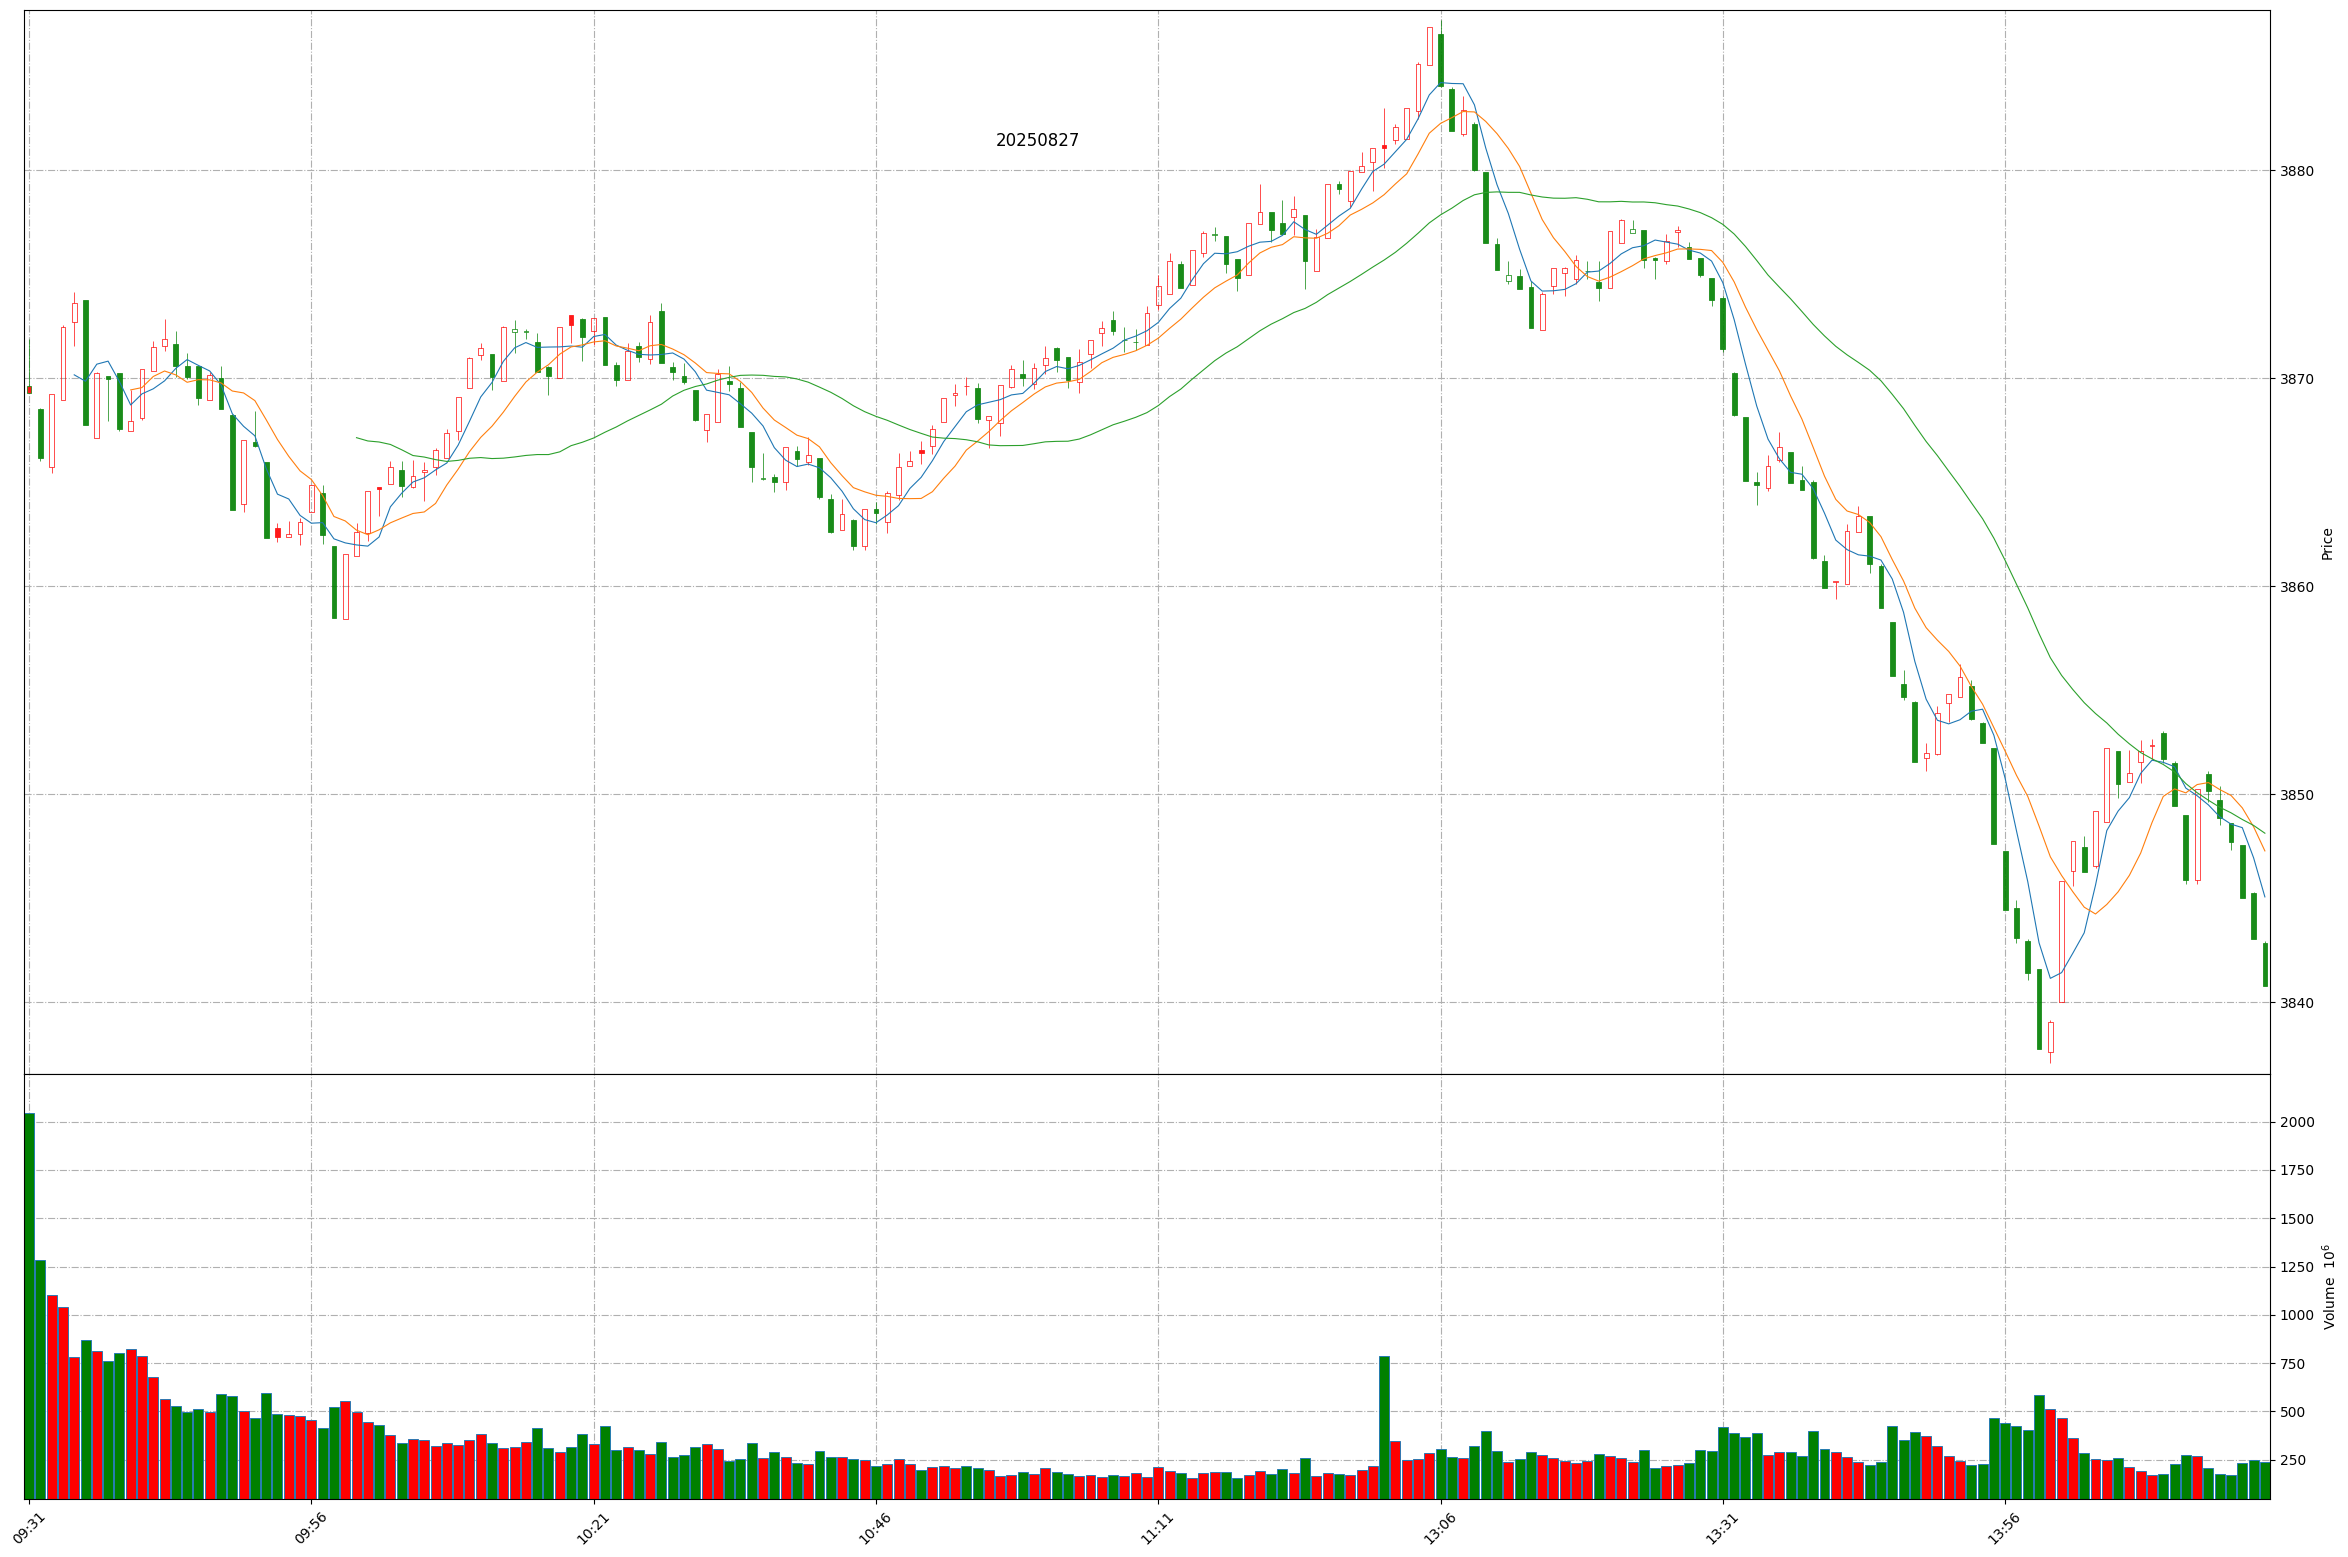
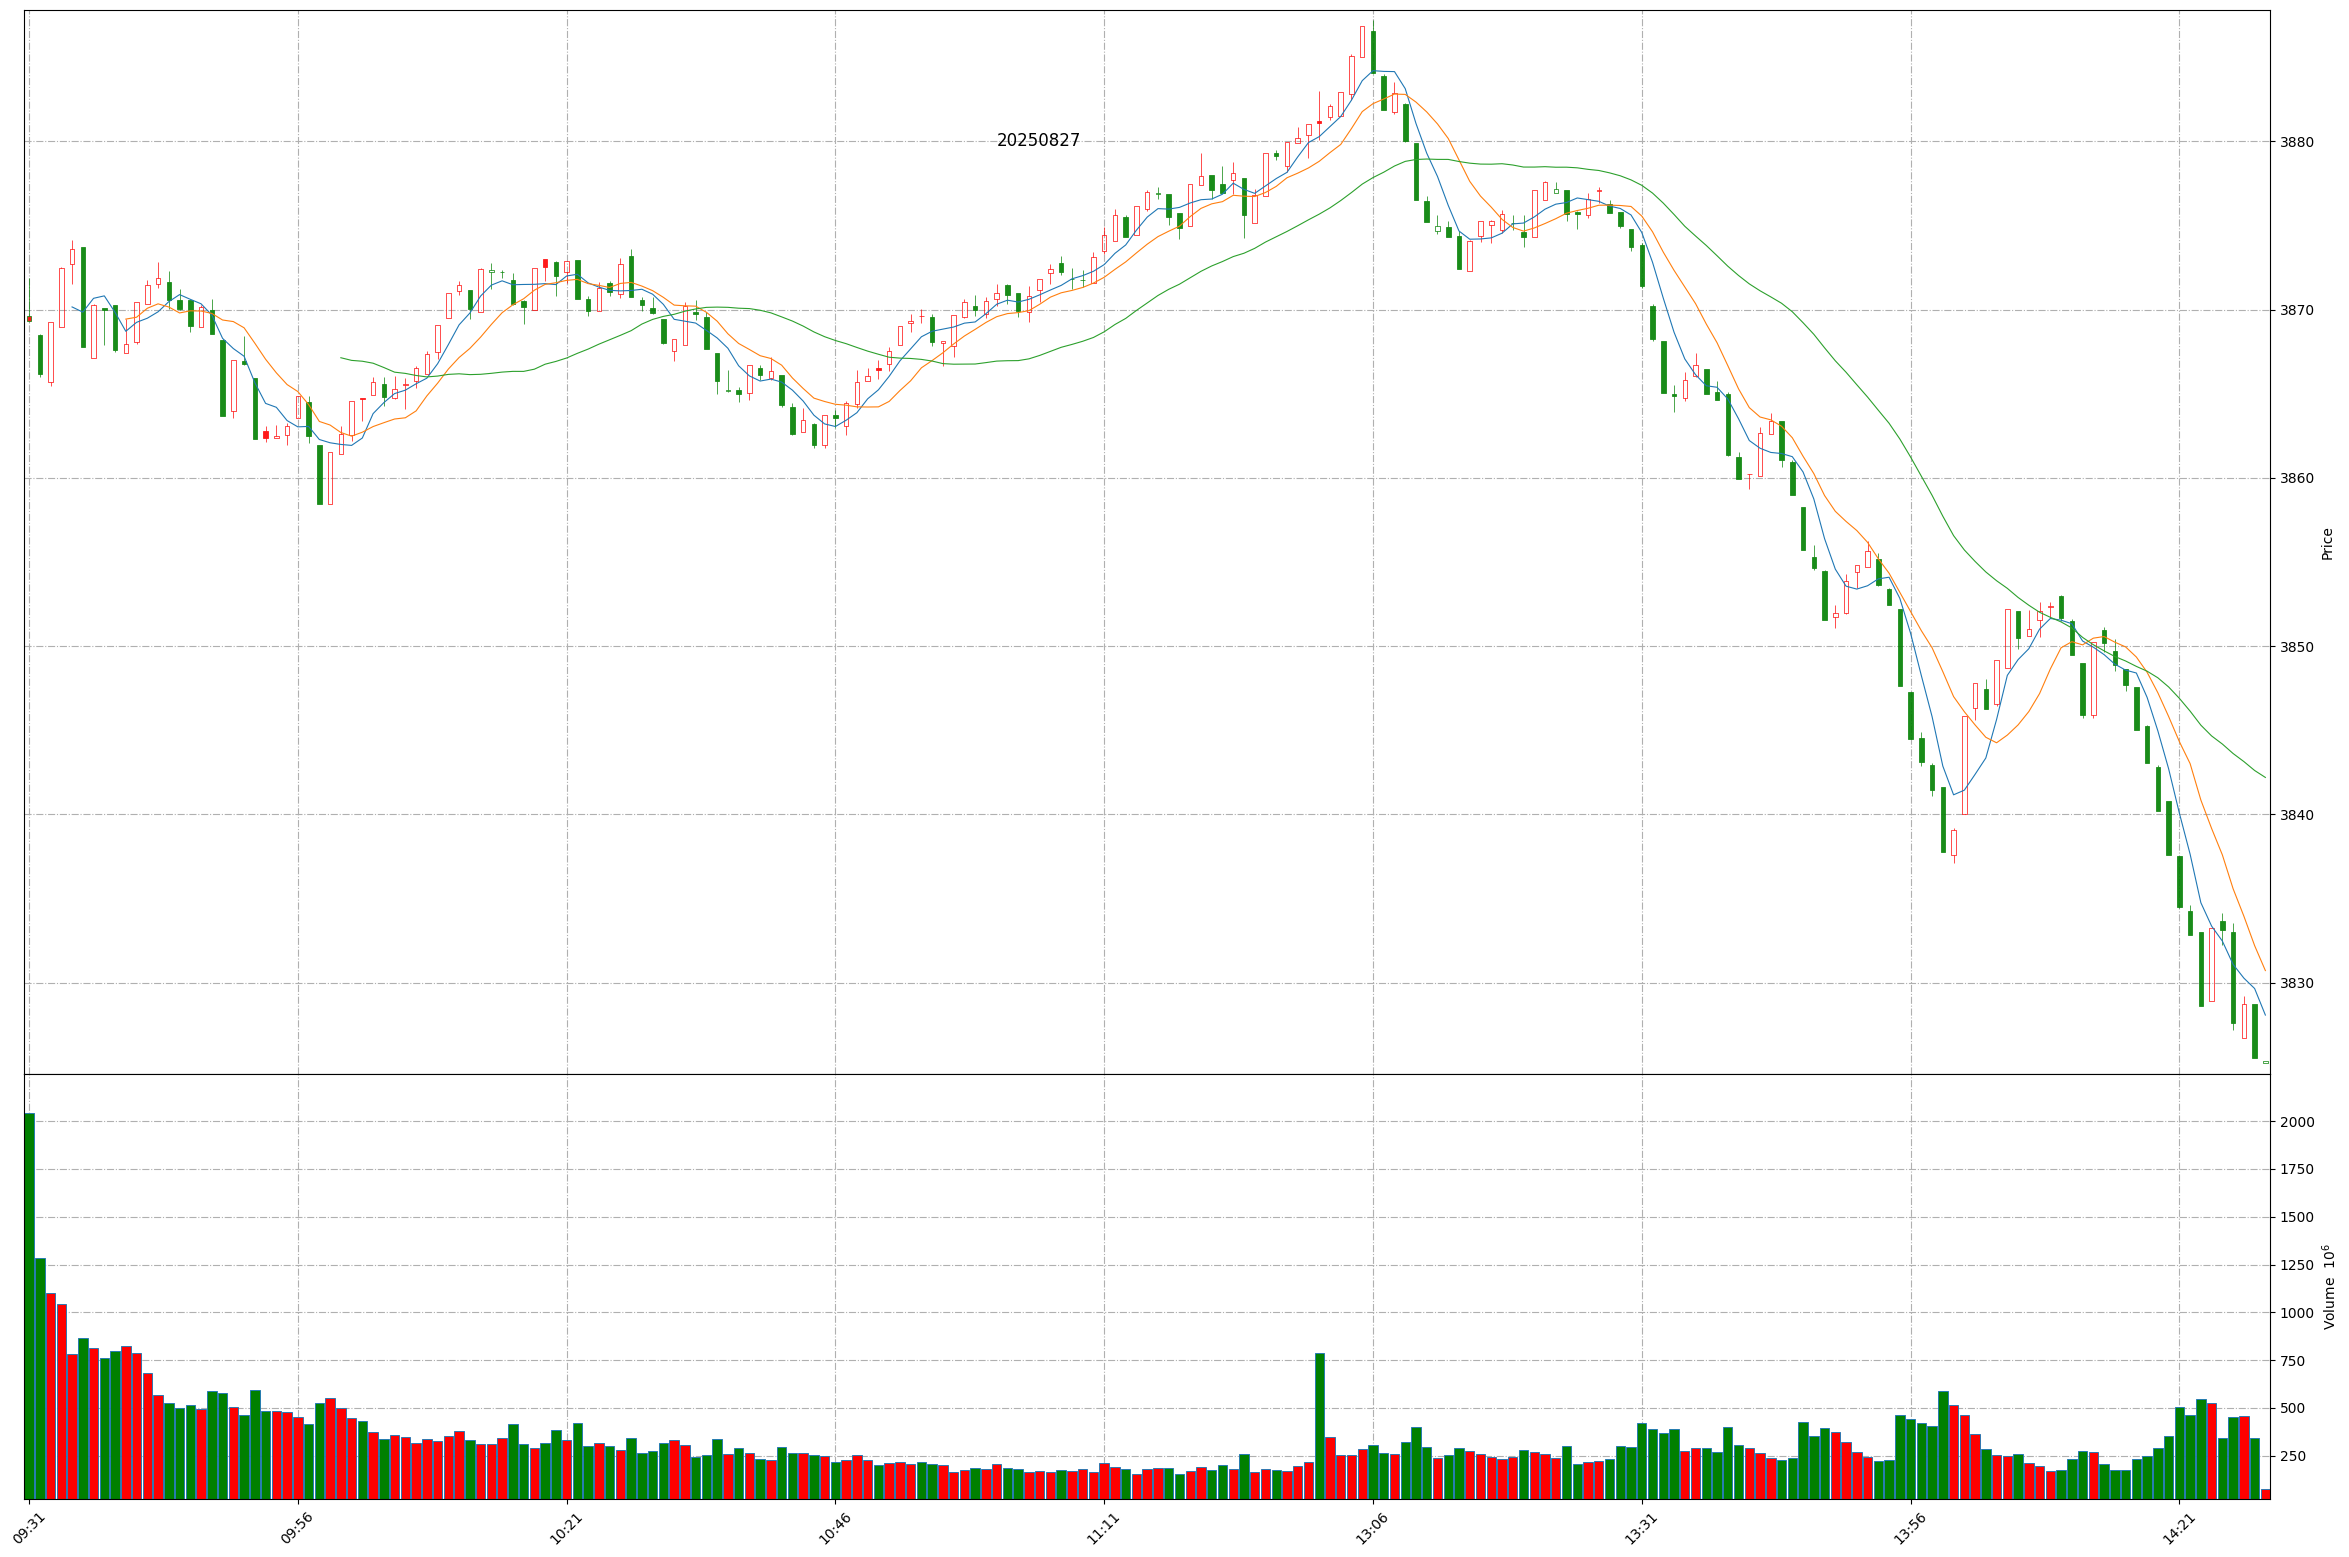
Github action update at 2025-08-27 14:28:34.

diff --git a/README.md b/README.md
@@ -1,11 +1,11 @@
 
 # Daily-A-share-market-quotes 每日 A 股指数（5min 更新）- 20250827
 
-### 上证指数 20250827 14:19
+### 上证指数 20250827 14:28
 ![](./fig/2025/8/20250827-sh000001.png)
 
-### 深证成指 20250827 14:19
+### 深证成指 20250827 14:28
 ![](./fig/2025/8/20250827-sz399001.png)
 
-### 北证50 20250827 14:19
+### 北证50 20250827 14:28
 ![](./fig/2025/8/20250827-bj899050.png)
